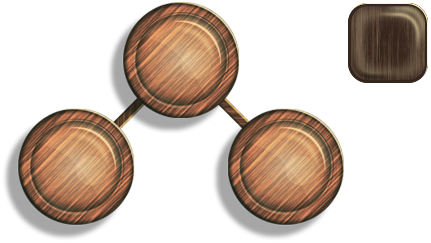
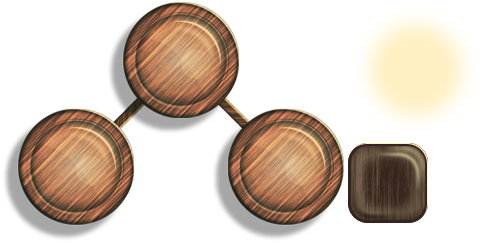
AxBar

diff --git a/javascript/math_game/js/LoggingPage.js b/javascript/math_game/js/LoggingPage.js
@@ -38,6 +38,8 @@ demo.LoggingPage = {
         
         //Btn---------------------------------------------------------------------------------------------------------------------------
         game.load.image('ExitLoggingBtn','javascript/math_game/assets/LoggingPage/ExitLoggingPage.jpg');
+       //audio-----------------------------------------------------------------------------------------------------------------------   
+        game.load.audio('rightFX', 'javascript/math_game/assets/audio/rightFX.mp3');      
         
     },
     create: function(){
@@ -92,6 +94,9 @@ demo.LoggingPage = {
             FoxLogging002.alpha = 0;
             FoxLogging003.alpha = 1;
             FoxLogging003.animations.play("FoxLogging003Dynamic",30,false);
+            if( AxBarSharp.x > -243 ){
+                game.add.tween(AxBarSharp).to({x:'-20'},500,'Quad.easeOut',true,0); 
+            }
         }, this);
         
         FoxLogging003Animation.onComplete.add(function () {	
@@ -115,44 +120,53 @@ demo.LoggingPage = {
         game.add.sprite(0,100,'LoggingPageFront');
        
       
-        QuestionPanel = game.add.sprite(0,148,'Panel',"QuestionPanel.png");
+        //Panel------------------------------------------------------------------------------------------------------
+        QuestionPanel = game.add.sprite(0,100,'Panel',"QuestionPanel.png");
         QuestionPanel.alpha = 0;
         //QuestionPanel.anchor.setTo(0.5);
         //QuestionPanel.scale.setTo(0.5);
       
-      for(let i = 0;i<5;i++){
-          AnswerPanel[i] = game.add.sprite(centerX+90*i+280,centerY+240,'Panel',"AnswerPanel.png");
-          AnswerPanel[i].anchor.setTo(0.5);
-          AnswerPanel[i].alpha = 0;
+        for(let i = 0;i<5;i++){
+            AnswerPanel[i] = game.add.sprite(centerX+90*i+280,centerY+240,'Panel',"AnswerPanel.png");
+            AnswerPanel[i].anchor.setTo(0.5);
+            AnswerPanel[i].alpha = 0;
       
           
-          AnswerPanel[i].events.onInputDown.add(CleanLoggingPageButton, this);
-          AnswerPanel[i].inputEnabled = false;
-      }
+            AnswerPanel[i].events.onInputDown.add(CleanLoggingPageButton, this);
+            AnswerPanel[i].inputEnabled = false;
+        }
+        //PanelGlow-------------------------------------------------------------------------------------------------
       
-      //AxBar------------------------------------------------------------------------------------------------------
-      AxBarBG = game.add.sprite(100,100,'AxBar','AxBarBG.png');
-      AxBarBG.alpha = 0;
-      AxBarSharp = game.add.sprite(AxBarX,100,'AxBar','AxBarSharp.png');
-      AxBarSharpTween = game.add.tween(AxBarSharp).to({alpha:'-0.4'},500,'Quad.easeInOut',true,0,false,true).loop(true);
-      AxBarSharpTween.pause();      
-      AxBarSharp.alpha = 0;
+        PanelGlowNumSum = game.add.sprite(0,100,'Panel','PanelGlowSum.png');
+        PanelGlowNumSum.alpha = 0;
       
-      AxBarmask = game.add.graphics();
-      AxBarmask.beginFill(0xffffff);
-      AxBarmask.drawRect(250,170,350,50);
-      AxBarSharp.mask = AxBarmask;
+        PanelGlowNumAdd = game.add.sprite(0,100,'Panel','PanelGlowAdd.png');
+        
+        PanelGlowNumAdd.alpha = 0;        
+        //AxBar------------------------------------------------------------------------------------------------------
+        AxBarBG = game.add.sprite(100,100,'AxBar','AxBarBG.png');
+        AxBarBG.alpha = 0;
+        AxBarSharp = game.add.sprite(AxBarX,100,'AxBar','AxBarSharp.png');
+        AxBarSharpTween = game.add.tween(AxBarSharp).to({alpha:'-0.4'},500,'Quad.easeInOut',true,0,false,true).loop(true);
+        
+        AxBarSharpTween.pause();      
+        AxBarSharp.alpha = 0;
+      
+        AxBarmask = game.add.graphics();
+        AxBarmask.beginFill(0xffffff);
+        AxBarmask.drawRect(250,170,350,50);
+        AxBarSharp.mask = AxBarmask;
      
-      AxBar = game.add.sprite(100,100,'AxBar','AxBar.png');
-      AxBar.alpha = 0;
-      AxBarLight = game.add.sprite(100,100,'AxBar','AxBarLight.png');
-      AxBarLight.alpha = 0;
+        AxBar = game.add.sprite(100,100,'AxBar','AxBar.png');
+        AxBar.alpha = 0;
+        AxBarLight = game.add.sprite(100,100,'AxBar','AxBarLight.png');
+        AxBarLight.alpha = 0;
       
         
-      AxBarFullLight = game.add.sprite(100,100,'AxBar','AxBarLight.png');
-      AxBarFullLightTween = game.add.tween(AxBarFullLight).to({alpha:'-0.4'},500,'Quad.easeInOut',true,0,false,true).loop(true);
-      AxBarFullLightTween.pause();  
-      AxBarFullLight.alpha = 0;      
+        AxBarFullLight = game.add.sprite(100,100,'AxBar','AxBarLight.png');
+        AxBarFullLightTween = game.add.tween(AxBarFullLight).to({alpha:'-0.4'},500,'Quad.easeInOut',true,0,false,true).loop(true);
+        AxBarFullLightTween.pause();  
+        AxBarFullLight.alpha = 0;      
       
         //ExitLoggingBtn-----------------------------------------------------------------------------------------------------
         ExitLoggingBtn = game.add.sprite(150,420,'ExitLoggingBtn');
@@ -160,12 +174,17 @@ demo.LoggingPage = {
         ExitLoggingBtn.events.onInputDown.add(ExitLoggingPage, this);
         ExitLoggingBtn.inputEnabled = true;
         ExitLoggingBtn.input.useHandCursor = true; 
+      
+        //sound----------------------------------------------------------------------------------------------------------------
+      
+        rightFX = game.add.audio('rightFX');        
     },
     update: function(){
 
     } 
 }
 function ExitLoggingPage(){
+    AxBarX = AxBarSharp.x;
     game.state.start('LevelMap');
 }
 
@@ -245,23 +264,23 @@ function CreateLoggingPageNumber(){
     console.log(equation);
     var style = { font: "60px Arial", fill: "#3a311f", align: "center" };      
     if( level == 3 ){
-        NumSum = game.add.text(centerX+462,centerY-130,'?', style);
+        NumSum = game.add.text(centerX+462,centerY-178,'?', style);
         NumSum.anchor.set(0.5);
     
-        NumAdd1 = game.add.text(centerX+462-106,centerY-23,equation[0], style);
+        NumAdd1 = game.add.text(centerX+462-106,centerY-71,equation[0], style);
         NumAdd1.anchor.set(0.5);    
 
-        NumAdd2 = game.add.text(centerX+462+106,centerY-23,equation[1], style);
+        NumAdd2 = game.add.text(centerX+462+106,centerY-71,equation[1], style);
         NumAdd2.anchor.set(0.5);  
     }
     if( level == 4 ){
-        NumSum = game.add.text(centerX+462,centerY-150,equation[2], style);
+        NumSum = game.add.text(centerX+462,centerY-178,equation[2], style);
         NumSum.anchor.set(0.5);
     
-        NumAdd1 = game.add.text(centerX+462-106,centerY-23,equation[0], style);
+        NumAdd1 = game.add.text(centerX+462-106,centerY-71,equation[0], style);
         NumAdd1.anchor.set(0.5);    
 
-        NumAdd2 = game.add.text(centerX+462+106,centerY-23,'?', style);
+        NumAdd2 = game.add.text(centerX+462+106,centerY-71,'?', style);
         NumAdd2.anchor.set(0.5);  
     }
 
@@ -290,31 +309,10 @@ function CreateLoggingPageNumber(){
 }
 
 function CleanLoggingPageButton(){
-    //AxBarLight.alpha = 1;
-    //game.add.tween(AxBarLight).to({alpha:0},1000,'Quad.easeOut',true,0);
-    /*
-    if( AxBarSharp.x >= -50 ){
-        level = 4;
-    }
-    if( AxBarSharp.x <= 0 ){
-        AxBarSharpPlusTween = game.add.tween(AxBarSharp).to({x:'+50'},250,'Quad.easeOut',true,0);
-        AxBarSharpPlusTween.onComplete.add(function () {	
+    PanelGlowNumSum.alpha = 1;
+    game.add.tween(PanelGlowNumSum).to({alpha:0},500,'Quad.easeOut',true,0);
+    rightFX.play();
     
-            if( AxBarSharp.x > 0 ){
-        
-                console.log('Light');
-                AxBarFullLight.alpha = 1;
-                AxBarFullLightTween.resume();
-                FoxWithAx.alpha = 0;
-                FoxWithAx.animations.play("FoxWithAxDynamic",15,true); 
-                FoxWithGoldenAx.alpha = 1;
-                FoxWithGoldenAx.animations.play("FoxWithGoldenAxDynamic",17,true); 
-            }    
-        }, this);
-    }
-    */
-    //CleanAnswerPanel------------------------------------------------------------------------------
-    //AxPageRand = Math.floor(Math.random() * 2);
     for(let i = 0;i<5;i++){
         AnswerPanel[i].inputEnabled = false;
     }

diff --git a/javascript/math_game/js/AxPage.js b/javascript/math_game/js/AxPage.js
@@ -1,5 +1,5 @@
 var answer_panel = new Array();
-var AxBarX = -343;
+var AxBarX = -243;
 
 demo.AxPage = function(){};
 demo.AxPage = {
@@ -36,6 +36,9 @@ demo.AxPage = {
       //---------------------------------------------------------------------------------------------------------------------------------
     
       game.load.atlas('ArrowSheet', 'javascript/math_game/assets/HomePage/ArrowSheet.png', 'javascript/math_game/assets/HomePage/ArrowSheet.json');
+      
+        //audio-----------------------------------------------------------------------------------------------------------------------   
+        game.load.audio('rightFX', 'javascript/math_game/assets/audio/rightFX.mp3');      
 
   },
   create: function(){
@@ -49,7 +52,7 @@ demo.AxPage = {
       game.add.sprite(0,100,'AxPageBG');
      
       //AxBar------------------------------------------------------------------------------------------------------
-      AxBarBG = game.add.sprite(0,100,'AxBar','AxBarBG.png');
+      AxBarBG = game.add.sprite(100,100,'AxBar','AxBarBG.png');
       AxBarBG.alpha = 0;
       AxBarSharp = game.add.sprite(AxBarX,100,'AxBar','AxBarSharp.png');
       AxBarSharpTween = game.add.tween(AxBarSharp).to({alpha:'-0.4'},500,'Quad.easeInOut',true,0,false,true).loop(true);
@@ -58,16 +61,16 @@ demo.AxPage = {
       
       AxBarmask = game.add.graphics();
       AxBarmask.beginFill(0xffffff);
-      AxBarmask.drawRect(150,170,350,50);
+      AxBarmask.drawRect(250,170,350,50);
       AxBarSharp.mask = AxBarmask;
      
-      AxBar = game.add.sprite(0,100,'AxBar','AxBar.png');
+      AxBar = game.add.sprite(100,100,'AxBar','AxBar.png');
       AxBar.alpha = 0;
-      AxBarLight = game.add.sprite(0,100,'AxBar','AxBarLight.png');
+      AxBarLight = game.add.sprite(100,100,'AxBar','AxBarLight.png');
       AxBarLight.alpha = 0;
       
         
-      AxBarFullLight = game.add.sprite(0,100,'AxBar','AxBarLight.png');
+      AxBarFullLight = game.add.sprite(100,100,'AxBar','AxBarLight.png');
       AxBarFullLightTween = game.add.tween(AxBarFullLight).to({alpha:'-0.4'},500,'Quad.easeInOut',true,0,false,true).loop(true);
       AxBarFullLightTween.pause();  
       AxBarFullLight.alpha = 0;      
@@ -121,10 +124,10 @@ demo.AxPage = {
       StartSharpenText.mask = AxPagemask;
       StopSharpenText.mask = AxPagemask;
       ExitAxPageText.mask = AxPagemask;
-      //---------------------------------------------------------------------------------------------------------------------
+      //Panel---------------------------------------------------------------------------------------------------------------------
       QuestionPanel = game.add.sprite(0,100,'Panel','QuestionPanel.png');
       
-      //question_panel.scale.setTo(0.5);
+
       QuestionPanel.alpha = 0;
       for(let i = 0;i<5;i++){
           answer_panel[i] = game.add.sprite(centerX+100*i,centerY+98,'Panel','AnswerPanel.png');
@@ -135,7 +138,13 @@ demo.AxPage = {
           answer_panel[i].events.onInputDown.add(CleanAxPageButton, this);
           answer_panel[i].inputEnabled = false;
       }
-    
+      //PanelGlow------------------------------------------------------------------------------------------------------------------
+      PanelGlowNumSum = game.add.sprite(0,100,'Panel','PanelGlowNumSum.png');
+      PanelGlowNumSum.alpha = 0;
+      
+      PanelGlowNumAdd = game.add.sprite(0,100,'Panel','PanelGlowNumAdd.png');
+        
+      PanelGlowNumAdd.alpha = 0;
       //ArrowSheet------------------------------------------------------------------------------------------------------------------
         
       ArrowSheet = game.add.sprite(0,100,'ArrowSheet');
@@ -149,10 +158,15 @@ demo.AxPage = {
       ExitBtn.inputEnabled = true;
       ExitBtn.input.useHandCursor = true; 
       
+        
+      //sound----------------------------------------------------------------------------------------------------------------
+      rightFX = game.add.audio('rightFX');      
+      
   },
   update: function(){} 
 }
 function ExitAxPage(){
+    AxBarX = AxBarSharp.x;
     game.state.start('LevelMap');
 }
 function FoxSittingOver(){
@@ -189,13 +203,13 @@ function StartSharpening(){
     FoxSitting002.alpha = 0;
     FoxSitting002.animations.stop();    
     FoxSitting.inputEnabled = false;
-    if( AxBarSharp.x > 0 ){
+    if( AxBarSharp.x > 100 ){
         FoxWithGoldenAx.alpha = 1;
         FoxWithGoldenAx.animations.play("FoxWithGoldenAxDynamic",15,true); 
         AxBarFullLight.alpha = 1;
         AxBarFullLightTween.resume();       
     }
-    if( AxBarSharp.x < 0 ){
+    if( AxBarSharp.x < 100 ){
         FoxWithAx.alpha = 1;
         FoxWithAx.animations.play("FoxWithAxDynamic",15,true); 
         
@@ -316,16 +330,28 @@ function CreateAxPageNumber(){
 }
 
 function CleanAxPageButton(){
+    rightFX.play();
+    if( level == 1 ){
+        PanelGlowNumSum.alpha = 1;
+        game.add.tween(PanelGlowNumSum).to({alpha:0},500,'Quad.easeOut',true,0);
+        
+    }
+    if( level == 2 ){
+        PanelGlowNumAdd.alpha = 1;
+        game.add.tween(PanelGlowNumAdd).to({alpha:0},500,'Quad.easeOut',true,0);
+        
+    }
+        
     AxBarLight.alpha = 1;
     game.add.tween(AxBarLight).to({alpha:0},1000,'Quad.easeOut',true,0);
     if( AxBarSharp.x >= -50 ){
         level = 2;
     }
-    if( AxBarSharp.x <= 0 ){
+    if( AxBarSharp.x <= 100 ){
         AxBarSharpPlusTween = game.add.tween(AxBarSharp).to({x:'+50'},250,'Quad.easeOut',true,0);
         AxBarSharpPlusTween.onComplete.add(function () {	
     
-            if( AxBarSharp.x > 0 ){
+            if( AxBarSharp.x > 100 ){
         
                 console.log('Light');
                 AxBarFullLight.alpha = 1;

diff --git a/javascript/math_game/js/LevelMap.js b/javascript/math_game/js/LevelMap.js
@@ -55,7 +55,7 @@ function FoxAxBtnOut(){
 
 function GoLogging(){
     
-    game.state.start('LoggingPage');    
+    game.state.start('LoggingPage',true,false);    
 }
 function FoxLoggingBtnOver(){
     FoxLoggingHover.alpha = 1;
